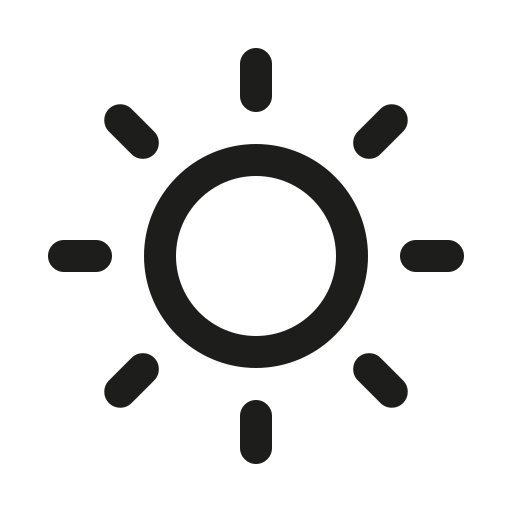
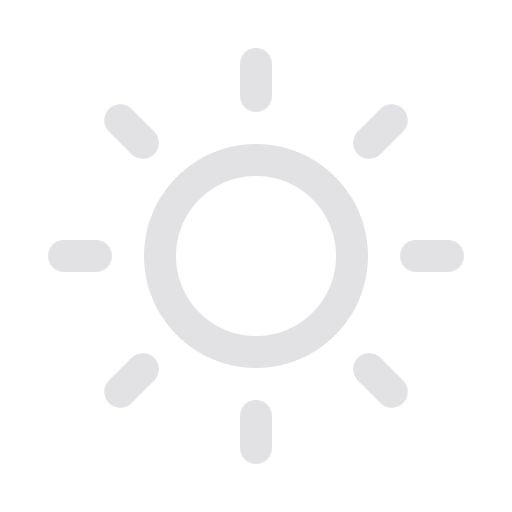
theme saving

diff --git a/script.js b/script.js
@@ -1,15 +1,21 @@
-themeToggle = false;
-function changeTheme() {
+loadedTheme = localStorage.getItem('theme')
+updateTheme();
+
+function updateTheme() {
     var themeImage = document.getElementById('themeImage');
 
-    themeToggle = !themeToggle;
-    if(themeToggle) {
-        document.documentElement.setAttribute('data-theme', 'light');
-        themeImage.src = 'images/sun_dark.png';
-    } else {
-        document.documentElement.setAttribute('data-theme', 'dark');
-        themeImage.src = 'images/sun_light.png';
+    localStorage.setItem('theme', loadedTheme);
+    document.documentElement.setAttribute('data-theme', loadedTheme);
+    themeImage.src = 'images/sun_'+loadedTheme+'.png';
+}
+
+function changeTheme() {
+    if(loadedTheme == 'dark') {
+        loadedTheme = 'light';
+    } else if(loadedTheme == 'light') {
+        loadedTheme = 'dark';
     }
+    updateTheme();
 }
 
 isNavOpen = false;
